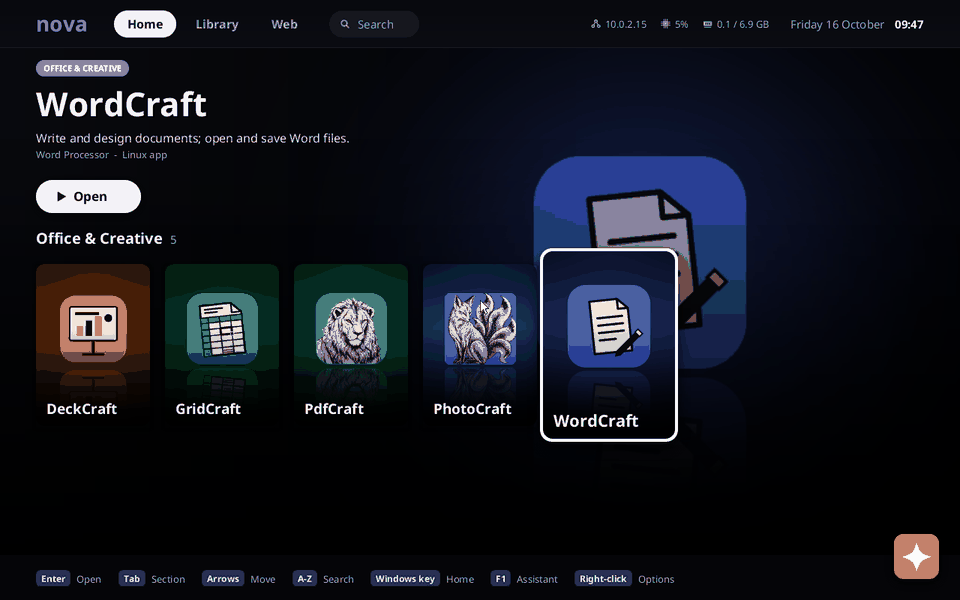
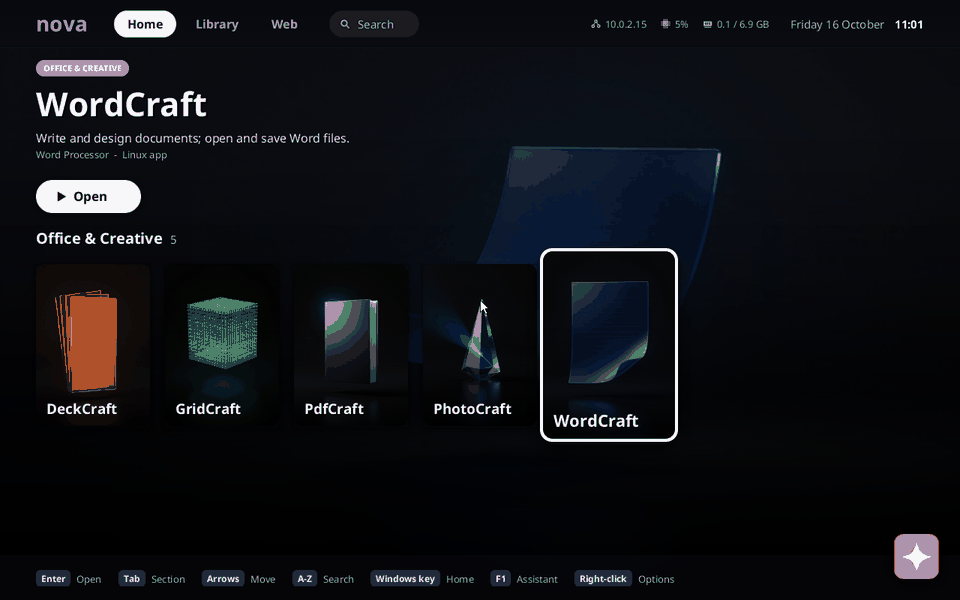
Home key art for the five default Craft apps
Light sculptures in the series' direction, each in its app's icon colour:
WordCraft a smoked-glass page curling into a ribbon, GridCraft a cube of glass
rods, DeckCraft blank glass panes fanned like slides, PdfCraft a brushed-metal
folio with a teal light seam, PhotoCraft a glowing crystal prism. Z-Image Turbo
on the ComfyUI server (the imagegen.rs workflow), capsules at 896x1280 and
heroes at 1792x1024, three to six seeds each, picked at card size; cropped by
brightness centroid, Lanczos-resized to 352x500 and 768x480, 8-bit RGB PNG.
make-craft-art.py now writes only the icon for these five (unless
--placeholders); the other nine keep the scripted placeholders. New Home
screenshot.

Claude-Session: https://claude.ai/code/session_01Dzup3LCZd7Bo6wRAZUJxG2

diff --git a/scripts/make-craft-art.py b/scripts/make-craft-art.py
@@ -16,7 +16,10 @@ into the cache. For each app this writes:
 The posters are deliberately plain and kept in their own files so Home's art direction can
 replace them. Needs Pillow.
 
-Usage: make-craft-art.py [app ...]      (default: every Craft app)
+The five default apps (KEY_ART) have generated key art instead (assets/README.md); for
+them only the icon is written, unless --placeholders.
+
+Usage: make-craft-art.py [--placeholders] [app ...]      (default: every Craft app)
 """
 import os
 import sys
@@ -26,6 +29,9 @@ from PIL import Image, ImageDraw, ImageFilter
 
 ROOT = os.path.dirname(os.path.dirname(os.path.abspath(__file__)))
 CACHE = os.path.join(os.environ.get("NOVA_CRAFT_CACHE", "/tmp/nova-craft-cache"), "icons")
+# Apps with generated key art in Home's series (assets/README.md): only their icons are
+# made here, unless --placeholders is given.
+KEY_ART = {"wordcraft", "gridcraft", "deckcraft", "pdfcraft", "photocraft"}
 APPS = ["wordcraft", "gridcraft", "deckcraft", "pdfcraft", "photocraft", "lightcraft", "filmcraft", "soundcraft",
         "vectorcraft", "designcraft", "figcraft", "cadcraft", "effectcraft", "craft-launcher"]
 
@@ -101,11 +107,16 @@ def hero(im, colour):
 
 
 def main():
-    apps = sys.argv[1:] or APPS
+    args = [a for a in sys.argv[1:] if a != "--placeholders"]
+    placeholders = "--placeholders" in sys.argv[1:]
+    apps = args or APPS
     for app in apps:
         im = fetch(app)
         colour = edge_colour(im)
         icon(im, colour).save(os.path.join(ROOT, "assets/icons", f"craft_{app}.png"), optimize=True)
+        if app in KEY_ART and not placeholders:
+            print(f"{app}: colour #{colour[0]:02X}{colour[1]:02X}{colour[2]:02X} (icon only; it has key art)")
+            continue
         for name, art in ((f"craft_{app}", capsule), (f"hero_craft_{app}", hero)):
             art(im, colour).quantize(colors=192, method=Image.MEDIANCUT, dither=Image.FLOYDSTEINBERG).convert("RGB").save(
                 os.path.join(ROOT, "assets/home", f"{name}.png"), optimize=True)

diff --git a/assets/README.md b/assets/README.md
@@ -53,6 +53,11 @@ Nothing is a stock scene, no text, logos, trademarks or people.
 | DuckDuckGo (`web_search`) | amber | a glass lens focusing light to one bright point |
 | Hacker News (`web_news`) | golden amber | a half disc of light rising over a flat horizon |
 | Rust (`web_forge`) | molten rust-orange | a bar of forged metal still glowing from the forge |
+| WordCraft (`craft_wordcraft`) | cobalt blue (icon `#3858D8`) | a sheet of smoked glass curling into a ribbon, faint lines of writing in it |
+| GridCraft (`craft_gridcraft`) | emerald green (`#189850`) | a cube of thin glass rods, a three-dimensional grid of cells |
+| DeckCraft (`craft_deckcraft`) | tangerine orange (`#F06818`) | blank landscape glass panes fanned one behind another, like slides |
+| PdfCraft (`craft_pdfcraft`) | teal (`#10A088`) | a closed folio of brushed-metal covers, a seam of teal light along its pages |
+| PhotoCraft (`craft_photocraft`) | azure blue (`#2878F0`) | a crystal prism glowing from within, splitting light into a fan of rays |
 | Wallpaper (`wall`) | violet on near-black | a single small star flaring in a dark indigo sky, the nova |
 
 **Composition rules.**
@@ -116,8 +121,12 @@ them white on a coloured tile (`ui::tile`) for sidebar sections.
 
 ## Craft App Suite icons and placeholder art (third-party)
 
+The five default Craft apps (WordCraft, GridCraft, DeckCraft, PdfCraft, PhotoCraft) have
+key art in the series above (`home/craft_<app>.png`, `home/hero_craft_<app>.png`),
+generated for Nova with the template and processing described there, in each app's icon
+colour; three to six seeds each, picked at card size. For the other nine,
 `icons/craft_<app>.png`, `home/craft_<app>.png` and `home/hero_craft_<app>.png` are not
-generated for Nova: they are made by `scripts/make-craft-art.py` from each app's own icon
+generated: they are made by `scripts/make-craft-art.py` from each app's own icon
 (`assets/app-icon/hicolor/256x256/apps/ai.storyteller.<app>.png` in its repository) for the
 Craft App Suite by storytold: WordCraft, GridCraft, DeckCraft, PdfCraft, PhotoCraft,
 LightCraft, FilmCraft, SoundCraft, VectorCraft, DesignCraft, FigCraft, CadCraft,
@@ -126,5 +135,6 @@ MIT OR Apache-2.0, Copyright (c) their authors. The icons are used as the apps' 
 the apps themselves (installed with `NOVA_CRAFT=...`, see docs/craft-apps.md); the script
 only fills the transparent corners with the tile colour and resizes (icons), or places the
 icon on a black stage with a haze of that colour and a floor reflection (capsules 352x500,
-heroes 768x480, in the layout of Home's key art above). They are placeholders until the
-apps get key art in the series' direction.
+heroes 768x480, in the layout of Home's key art above). Those posters are placeholders
+until the apps get key art in the series' direction; the icons of all fourteen come from
+the apps.
